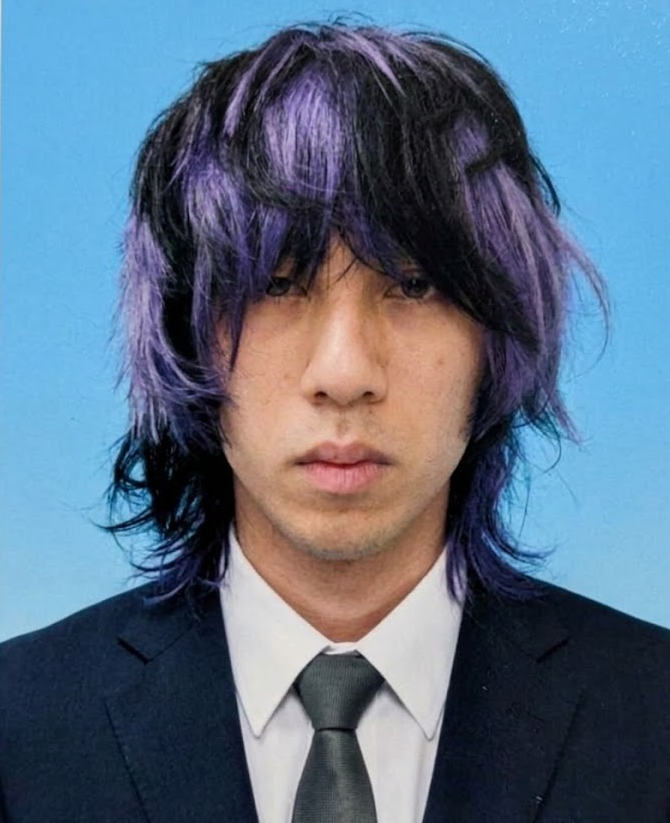
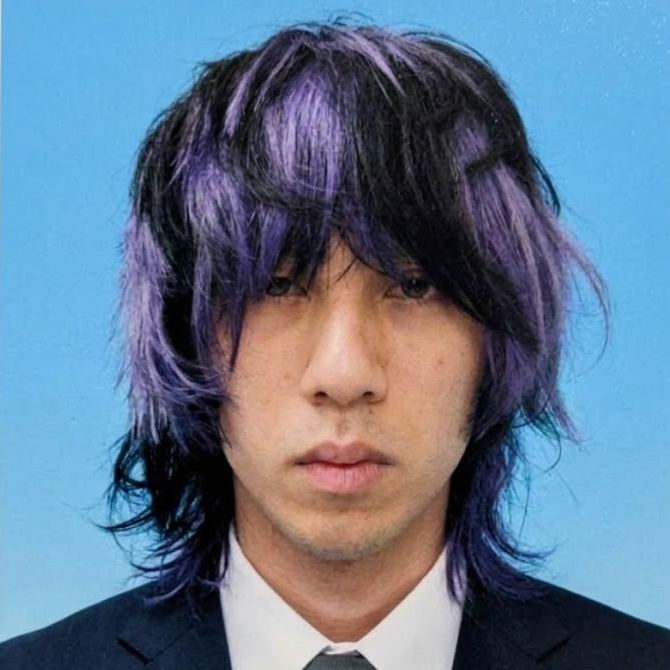
Stylization Changes

diff --git a/style.css b/style.css
@@ -281,12 +281,50 @@ body {
   background: #d8deea;
 }
 
-/* Gallery */
+/* Gallery: 80% of the window wide, image with name + description under each */
 .GalleryGrid {
-  display: grid;
-  grid-template-columns: repeat(auto-fit, minmax(240px, 1fr));
-  gap: 20px;
+  width: 80vw;
+  margin-left: calc(50% - 40vw);
   margin-top: 28px;
+  display: grid;
+  grid-template-columns: repeat(4, 1fr);   /* 4 across on wide screens */
+  gap: 28px;
+  align-items: start;
+}
+
+@media (max-width: 1000px) {
+  .GalleryGrid { grid-template-columns: repeat(2, 1fr); }   /* 2 x 2 */
+}
+
+@media (max-width: 600px) {
+  .GalleryGrid { grid-template-columns: 1fr; }              /* stacked on phones */
+}
+
+.GalleryItem {
+  margin: 0;
+  display: flex;
+  flex-direction: column;
+  align-items: center;
+  text-align: center;
+}
+
+.GalleryItem figcaption {
+  margin-top: 14px;
+  display: flex;
+  flex-direction: column;
+  align-items: center;   /* each line only as wide as its text */
+}
+
+.GalleryName {
+  margin: 0;
+  font-size: 1.15rem;
+  font-weight: 700;
+  color: #ffffff;
+}
+
+.GalleryDesc {
+  margin: 4px 0 0;
+  font-size: 0.95rem;
 }
 
 .GalleryGrid img {
@@ -403,7 +441,9 @@ body {
 .DescriptionBox h3,
 .MemberName,
 .MemberRole,
-.MemberText p {
+.MemberText p,
+.GalleryName,
+.GalleryDesc {
   transition: transform var(--hover-speed) ease,
               box-shadow var(--hover-speed) ease,
               color var(--hover-speed) ease,
@@ -442,7 +482,8 @@ body {
 .HeaderText:hover,
 .SubHeaderText:hover,
 .DescriptionBox h3:hover,
-.MemberName:hover {
+.MemberName:hover,
+.GalleryName:hover {
   transform: scale(1.1);
 }
 
@@ -450,7 +491,8 @@ body {
 .DescriptionText:hover,
 .DescriptionBox p:hover,
 .MemberRole:hover,
-.MemberText p:hover {
+.MemberText p:hover,
+.GalleryDesc:hover {
   transform: scale(1.05);
 }
 
@@ -462,7 +504,9 @@ body {
 .DescriptionBox p:hover,
 .DescriptionBox h3:hover,
 .MemberName:hover,
-.MemberText p:hover {
+.MemberText p:hover,
+.GalleryName:hover,
+.GalleryDesc:hover {
   color: #ffffff;
   text-shadow: var(--text-glow);
 }

diff --git a/design.html b/design.html
@@ -98,11 +98,40 @@
         Additional images, CAD models, sketches, and diagrams of our design process.
       </p>
 
+      <!-- Each .GalleryItem is an image with a name and description underneath.
+           Copy one to add another. -->
       <div class="GalleryGrid">
-        <img src="images/gallery1.jpg" alt="Design Image 1">
-        <img src="images/gallery2.jpg" alt="Design Image 2">
-        <img src="images/gallery3.jpg" alt="Design Image 3">
-        <img src="images/gallery4.jpg" alt="Design Image 4">
+        <figure class="GalleryItem">
+          <img src="images/code.png" alt="Pseudocode outline of the robot process">
+          <figcaption>
+            <h3 class="GalleryName">Pseudocode</h3>
+            <p class="GalleryDesc">Code outline of our robot's general process.</p>
+          </figcaption>
+        </figure>
+
+        <figure class="GalleryItem">
+          <img src="images/EE.png" alt="CAD model of the end effector">
+          <figcaption>
+            <h3 class="GalleryName">CAD Model</h3>
+            <p class="GalleryDesc">CAD model of our end effector.</p>
+          </figcaption>
+        </figure>
+
+        <figure class="GalleryItem">
+          <img src="images/gallery3.gif" alt="Simulation of a 5DOF robot arm">
+          <figcaption>
+            <h3 class="GalleryName">Simulation</h3>
+            <p class="GalleryDesc">A 5DOF robot arm running in simulation.</p>
+          </figcaption>
+        </figure>
+
+        <figure class="GalleryItem">
+          <img src="images/Arm.png" alt="Basic working prototype arm">
+          <figcaption>
+            <h3 class="GalleryName">The Build</h3>
+            <p class="GalleryDesc">Our basic working prototype arm.</p>
+          </figcaption>
+        </figure>
       </div>
     </section>
 

diff --git a/team.html b/team.html
@@ -62,7 +62,7 @@
 
             <div class="MemberRow">
                 <div class="MemberInner">
-                    <img class="MemberPhoto" src="images/brandonk.png" alt="Team Member 4">
+                    <img class="MemberPhoto" src="images/brandonk.jpg" alt="Team Member 4">
                     <div class="MemberText">
                         <h3 class="MemberName">Brandon Kao</h3>
                         <p class="MemberRole">5/5 ME</p>
